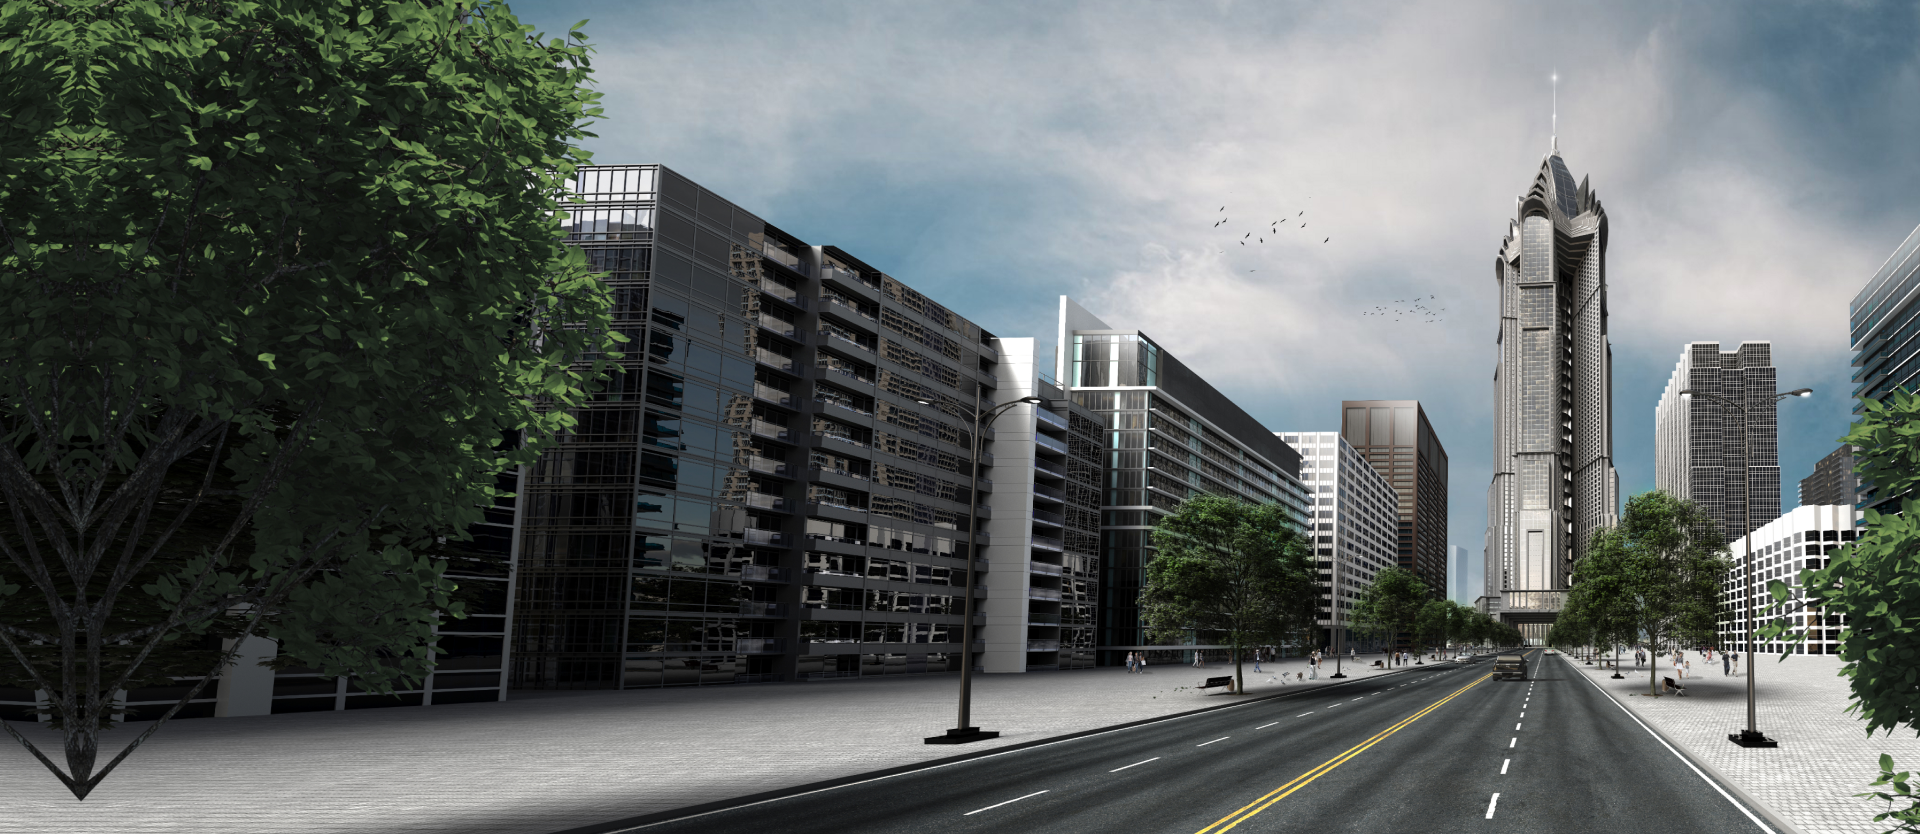
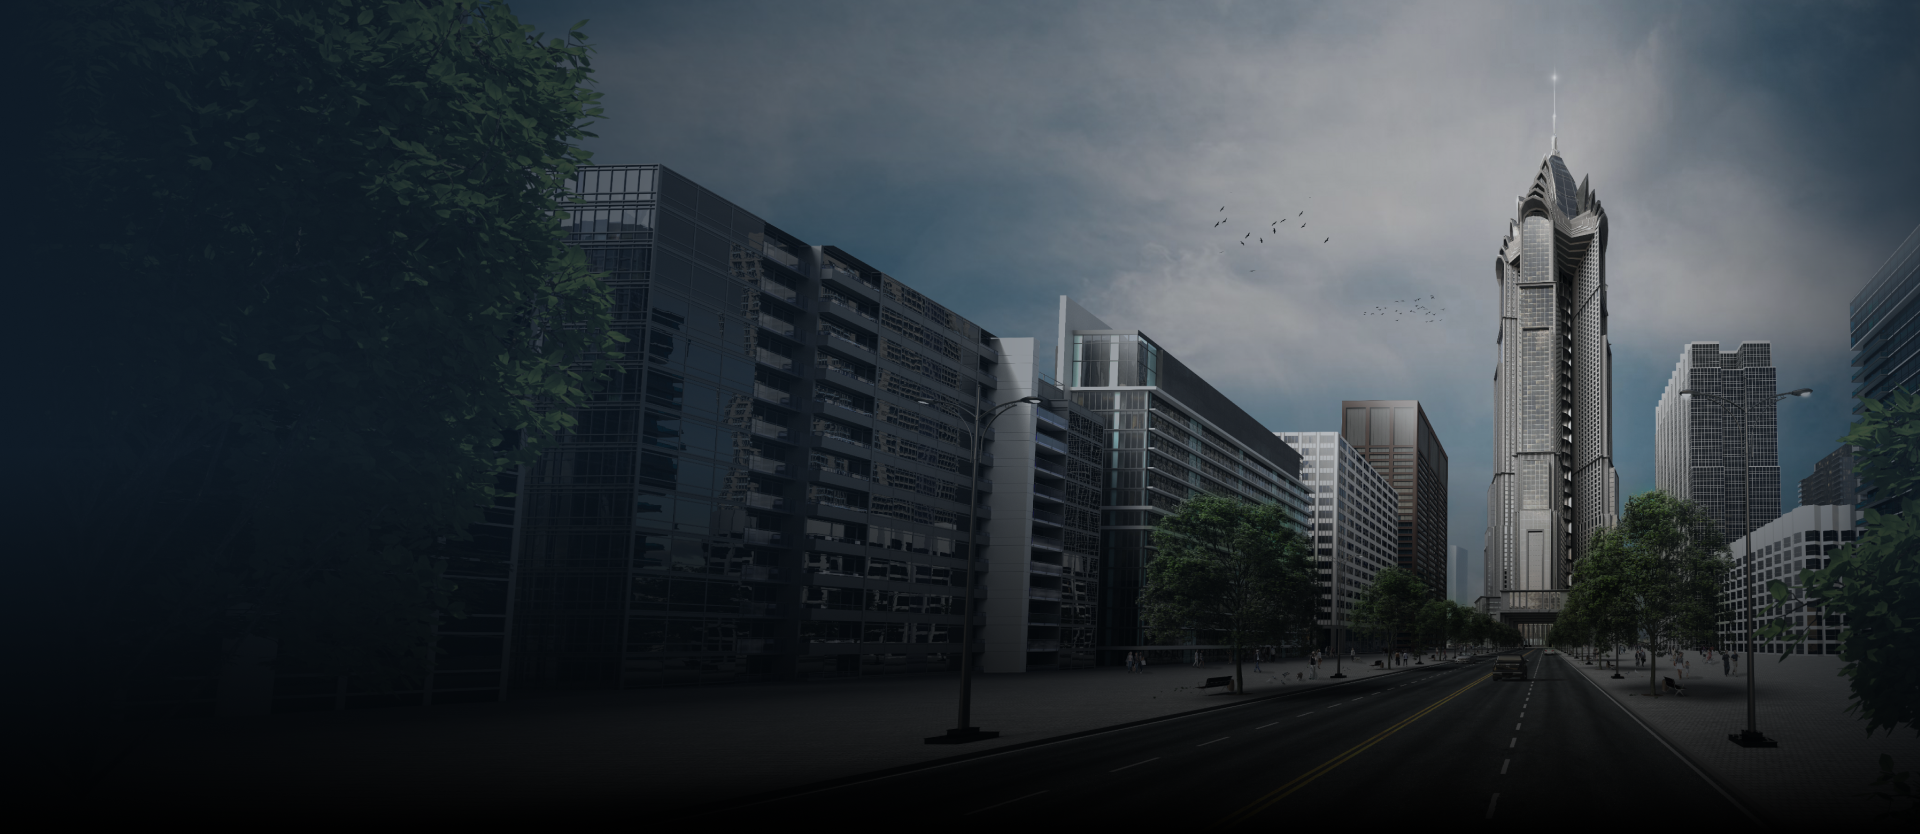
hero-page without adaptability

diff --git a/weter.html b/weter.html
@@ -57,17 +57,35 @@
 
 <section class="hero-page">
   <div class="wrapper">
-    <h1 class="hero-page__caption">
-      W.E.T.E.R
-    </h1>
-    <div class="hero-page__sub-caption">
-      Wind Energy Technology
-      Era Renewable
+    <div class="hero-page__container hero-container">
+      <h1 class="hero-container__caption">
+        W.E.T.E.R
+      </h1>
+      <div class="hero-container__sub-caption">
+        Wind Energy Technology
+        Era Renewable
+      </div>
+      <div class="hero-container__description">
+        Здание, способное обеспечить себя электрической энергией с помощью ветра
+      </div>
+      <div class="hero-container__video-presentation-container video-presentation-container">
+        <div class="video-presentation-container__icon">
+          <img src="src/images/play.svg" alt="">
+        </div>
+        <div class="video-presentation-container__text">
+          <p>Видео-презентация проекта</p>
+          <span>09:12</span>
+        </div>
+      </div>
     </div>
-    <div class="bg-images">
-      <div class="bg-images__image active"></div>
-      <div class="bg-images__image"></div>
+    <div class="socials">
+      <img class="socials__icon" src="src/images/telegram-icon.svg" alt="">
+      <img class="socials__icon" src="src/images/inst-icon.svg" alt="">
     </div>
+  </div>
+  <div class="bg-images">
+    <div class="bg-images__image active"></div>
+    <div class="bg-images__image"></div>
   </div>
 </section>
 </body>

diff --git a/src/styles/weter/heroPage.scss b/src/styles/weter/heroPage.scss
@@ -1,7 +1,47 @@
 .hero-page {
-  background: url("/softcorp/src/images/bg-gradient.png");
-  background-size: cover;
   width: 100%;
+}
+
+.hero-container {
+  margin-left: 600px;
+  padding-top: 120px;
+  max-width: 850px;
+
+  &__caption {
+    margin-bottom: 16px;
+  }
+  &__sub-caption {
+    font-size: 56px;
+    line-height: 64px;
+    padding-bottom: 40px;
+    margin-bottom: 40px;
+    border-bottom: 1px solid #CECFDB;
+  }
+  &__description {
+    font-size: 48px;
+    line-height: 56px;
+    margin-bottom: 140px;
+    font-family: InterBold;
+  }
+}
+
+.video-presentation-container {
+  display: flex;
+
+  &__icon {
+    margin-right: 24px;
+  }
+
+  p {
+    margin-top: 0;
+    margin-bottom: 8px;
+    font-size: 48px;
+    line-height: 56px;
+    font-family: InterBold;
+  }
+  span {
+    font-size: 40px;
+  }
 }
 
 .bg-images {
@@ -31,5 +71,22 @@
     &.active {
       opacity: 1;
     }
+  }
+}
+
+.socials {
+  position: absolute;
+  top: 150px;
+  right: 72px;
+  display: flex;
+  flex-direction: column;
+
+  @media (max-width: 1900px) {
+    right: 20px;
+  }
+
+  &__icon {
+    margin-bottom: 40px;
+    width: 80px;
   }
 }

diff --git a/src/styles/weter/weterDefault.scss b/src/styles/weter/weterDefault.scss
@@ -23,9 +23,10 @@ input[type='text'], input[type='email'], input[type='password'], input[type='num
 
 body {
   font-family: InterRegular;
-  color: #000000;
   font-size: 16px;
-  line-height: 16px;
+  line-height: 48px;
+  color: #CECFDB;
+  background: black;
 }
 
 h1, h2, .h1, .h2 {
@@ -34,8 +35,8 @@ h1, h2, .h1, .h2 {
 }
 
 h1, .h1 {
-  font-size: 48px;
-  line-height: 58px;
+  font-size: 72px;
+  line-height: 80px;
 
   @media (max-width: 1024px) {
     font-size: 44px;

diff --git a/src/styles/weter/header.scss b/src/styles/weter/header.scss
@@ -3,12 +3,15 @@ header {
   top: 0;
   left: 0;
   width: 100%;
+  z-index: 2;
 }
 
 .header-container {
   display: flex;
   justify-content: flex-end;
   position: absolute;
+  left: 50%;
+  transform: translateX(-50%);
 }
 
 .navigation-menu {
